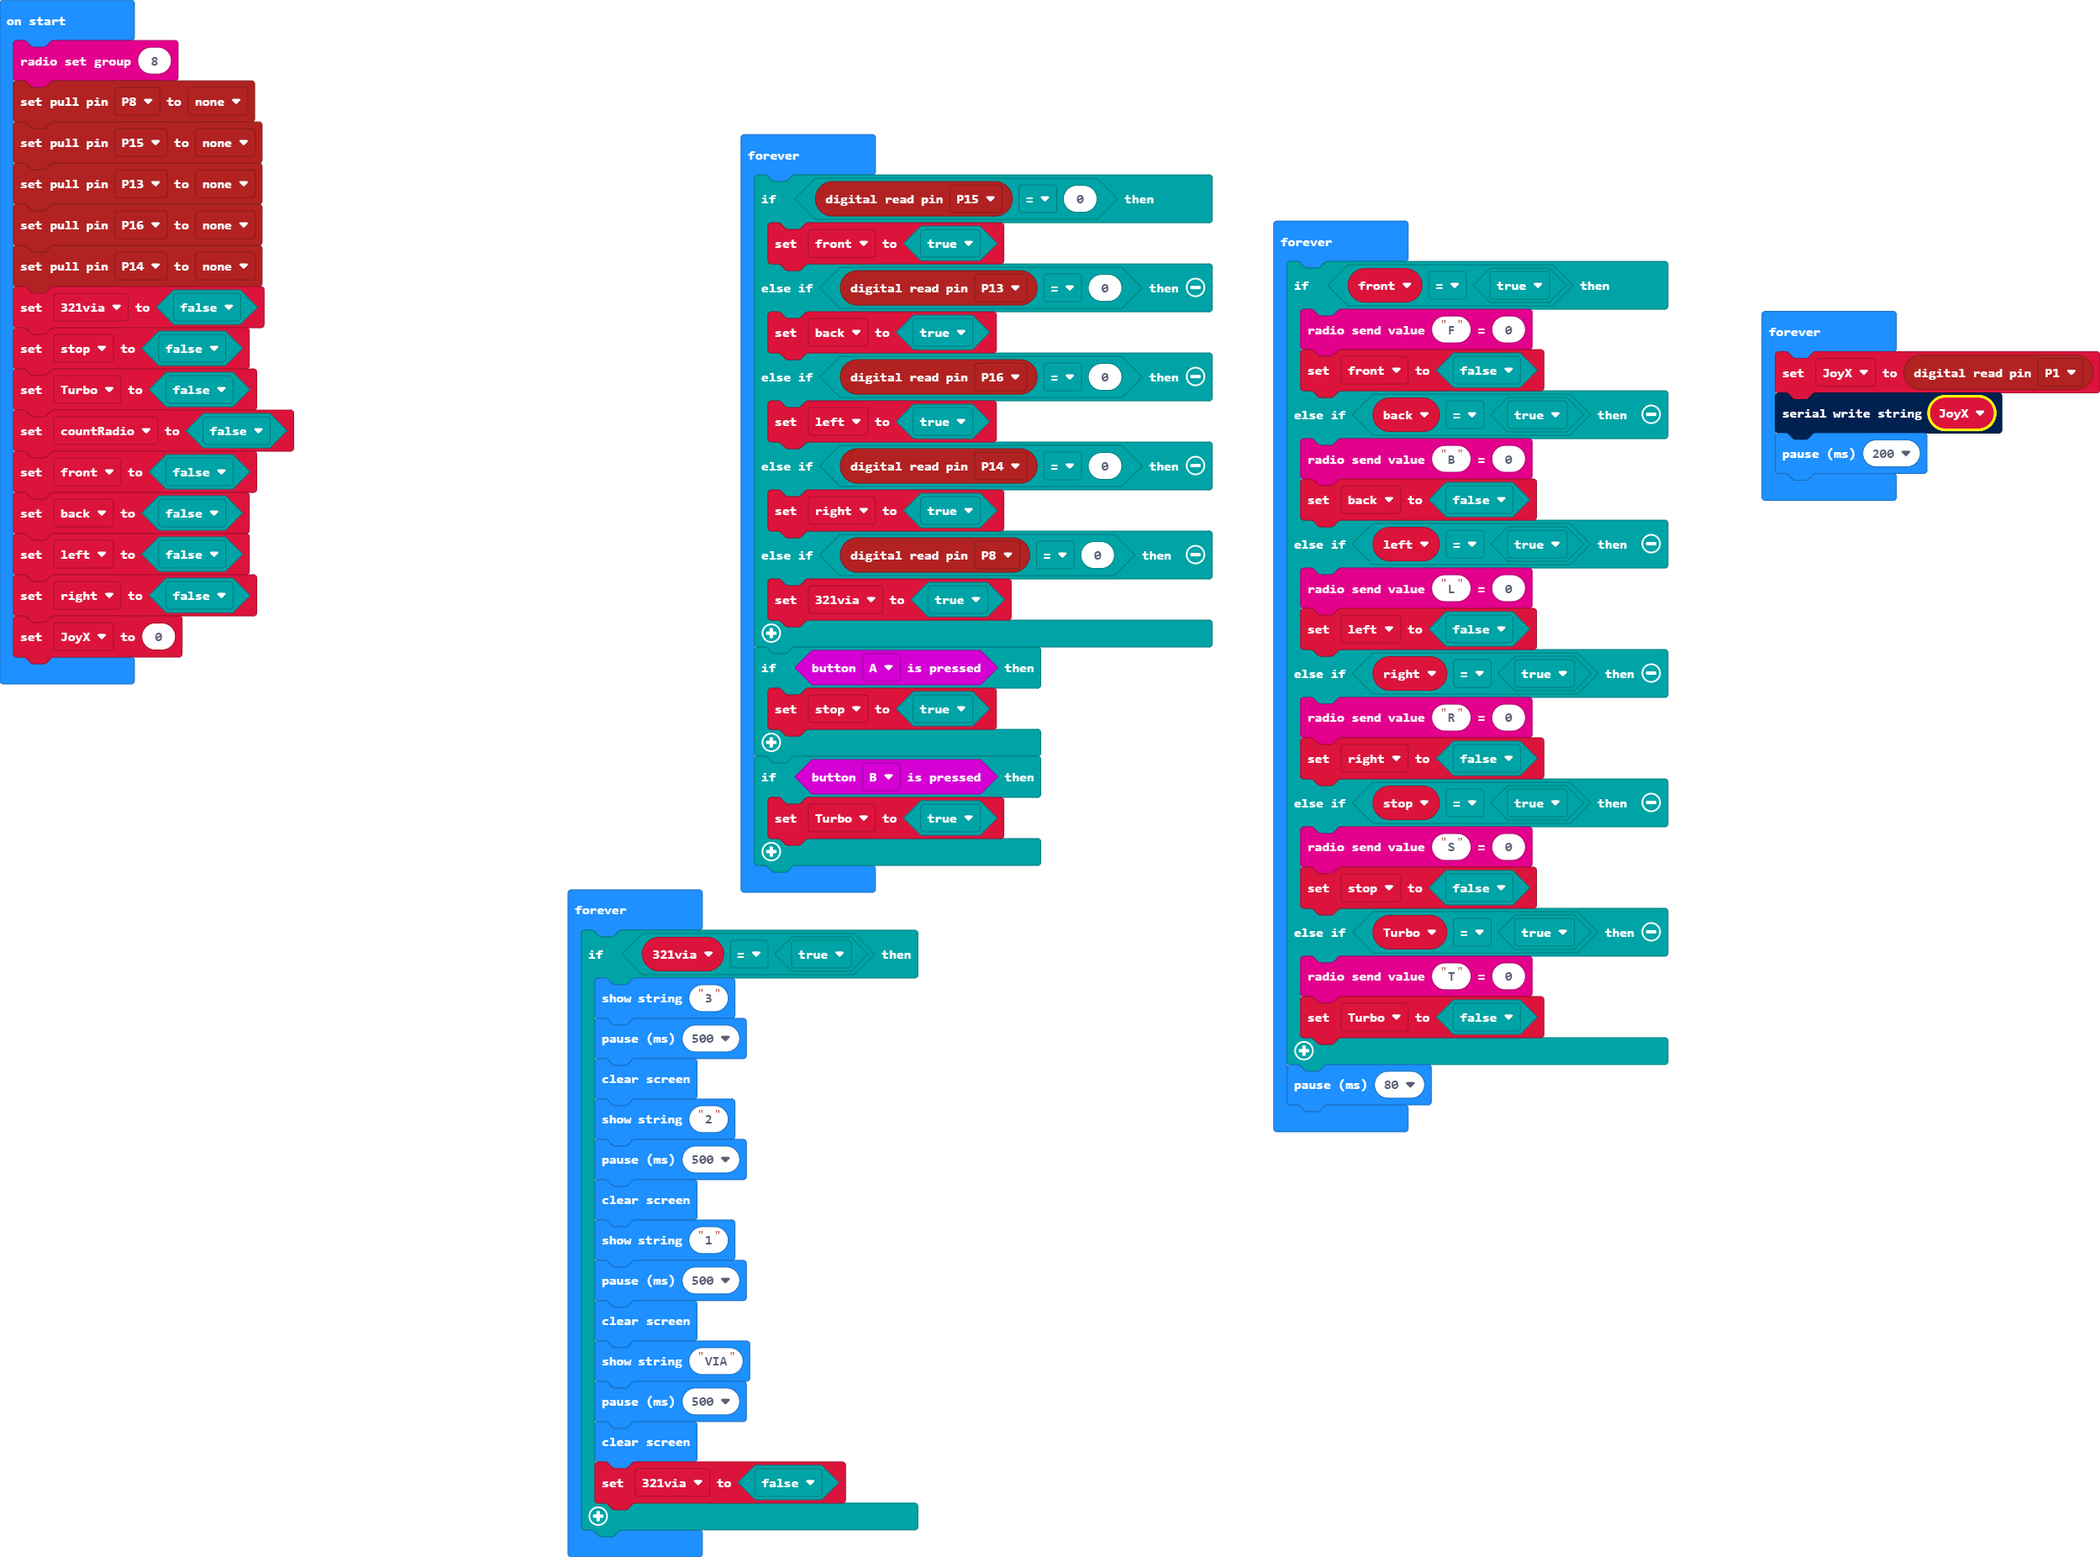
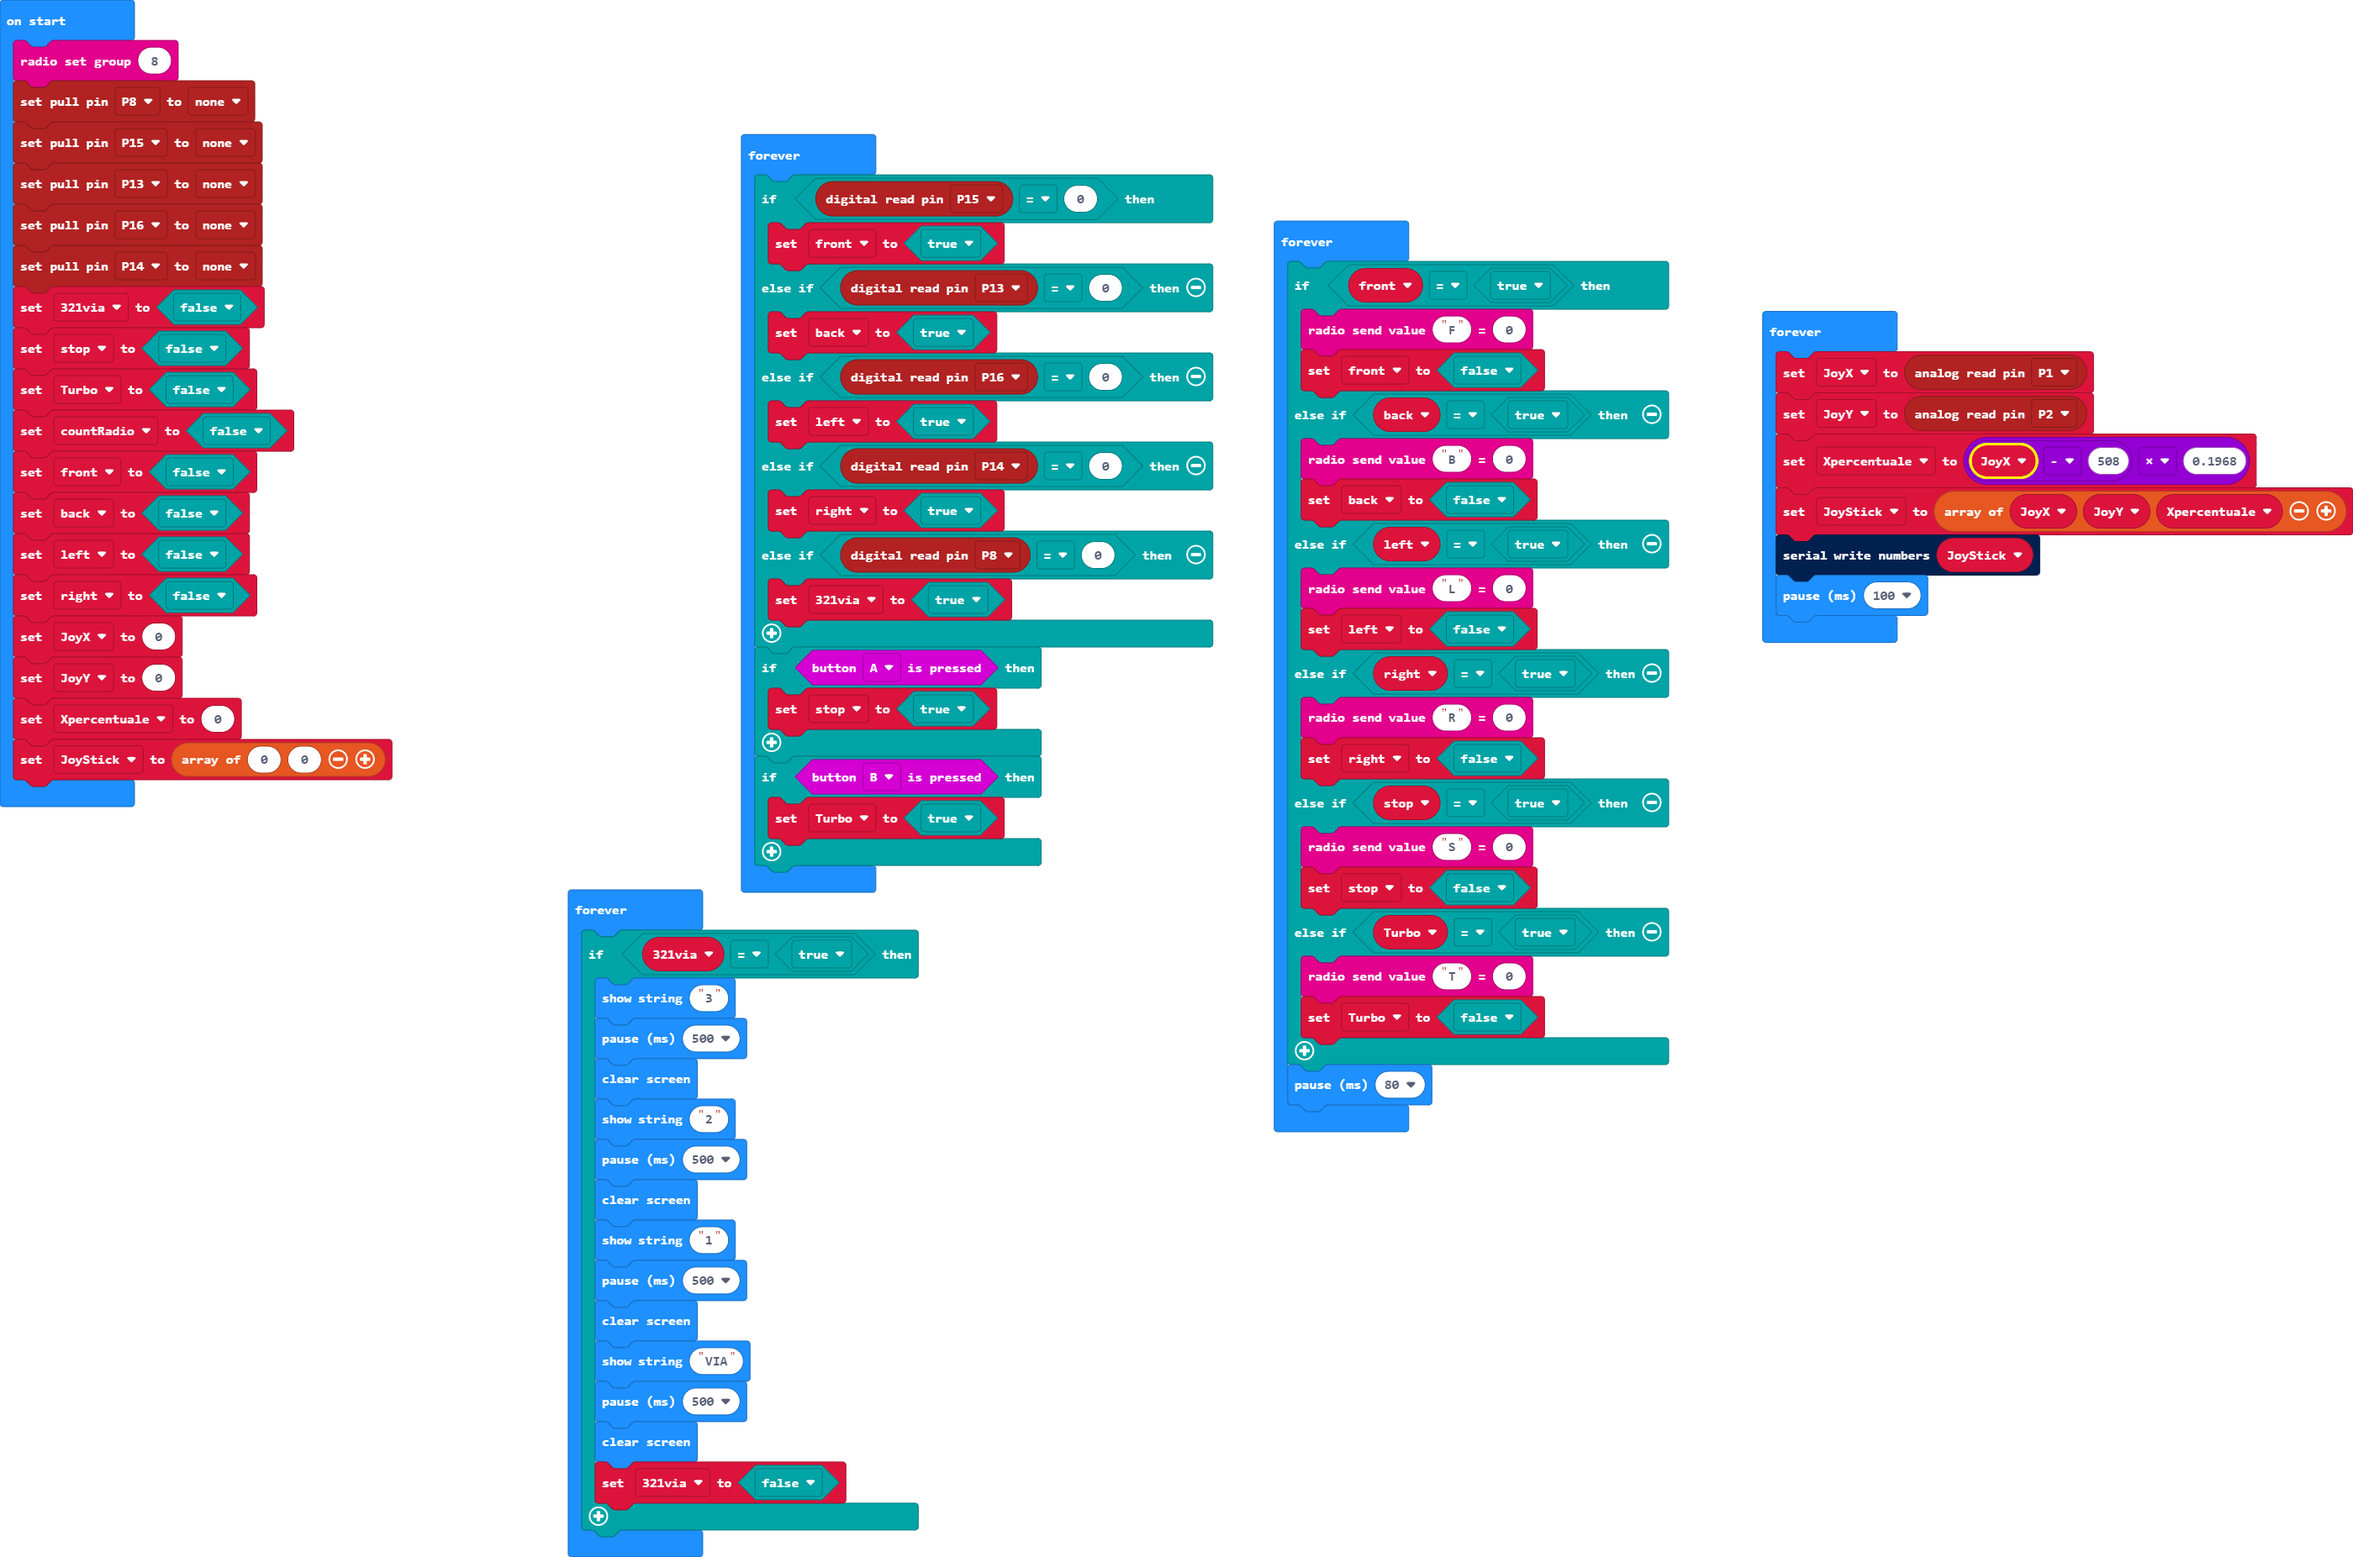
Update main.blocks, main.ts

Changed region(s): [[0.2185, 0.0615, 1.0, 1.0], [0.0, 0.0, 0.1873, 0.5229]]

diff --git a/main.ts b/main.ts
@@ -13,6 +13,9 @@ let back = false
 let left = false
 let right = false
 let JoyX = 0
+let JoyY = 0
+let Xpercentuale = 0
+let JoyStick = [0, 0]
 basic.forever(function () {
     if (pins.digitalReadPin(DigitalPin.P15) == 0) {
         front = true
@@ -55,9 +58,12 @@ basic.forever(function () {
     basic.pause(80)
 })
 basic.forever(function () {
-    JoyX = pins.digitalReadPin(DigitalPin.P1)
-    serial.writeString("" + (JoyX))
-    basic.pause(200)
+    JoyX = pins.analogReadPin(AnalogPin.P1)
+    JoyY = pins.analogReadPin(AnalogPin.P2)
+    Xpercentuale = (JoyX - 508) * 0.1968
+    JoyStick = [JoyX, JoyY, Xpercentuale]
+    serial.writeNumbers(JoyStick)
+    basic.pause(100)
 })
 basic.forever(function () {
     if (_321via == true) {
